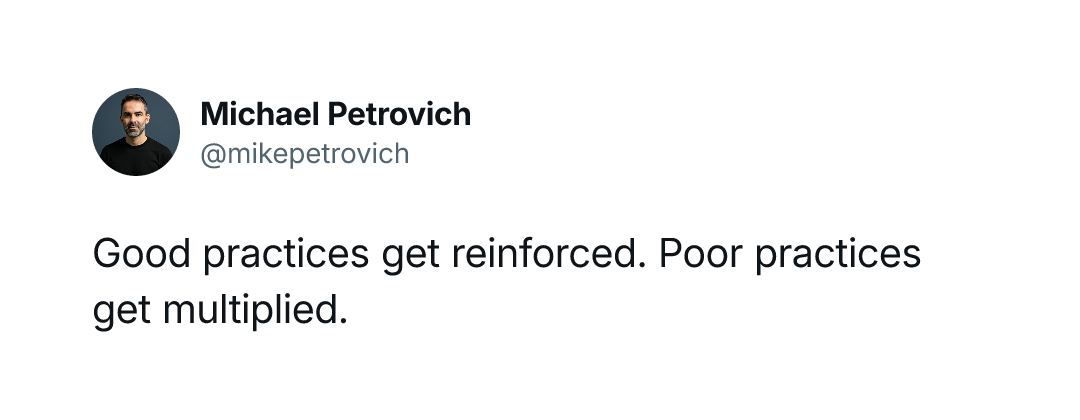
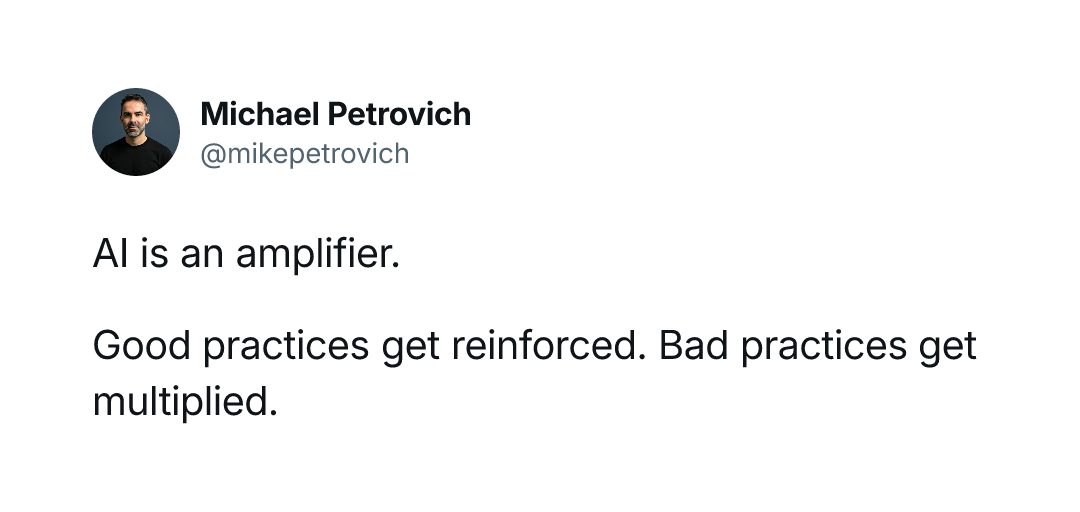
update: ai-is-an-amplifier tweet mockup text (#18)
* update: ai-is-an-amplifier tweet mockup text

* update: add closing paragraph to AI is an amplifier

* update: poor → bad practices for symmetry

* update: shorten closing line to If worse

---------

Changed region(s): [[0.0611, 0.5571, 0.9167, 0.8357], [0.0611, 0.1548, 0.4583, 0.4333], [0.0917, 0.4643, 0.3667, 0.5262]]

diff --git a/posts/published/2026-10-08-ai-is-an-amplifier.md b/posts/published/2026-10-08-ai-is-an-amplifier.md
@@ -1,12 +1,14 @@
 ---
 title: AI is an amplifier
-subtitle: Good practices get reinforced. Poor practices get multiplied.
+subtitle: Good practices get reinforced. Bad practices get multiplied.
 date: 2026-10-08
 topics: [ai, decision-making]
 ---
 
 If you have good practices, AI can help reinforce them.
 
-If you have poor practices, it multiplies their effects.
+If you have bad practices, it multiplies their effects.
 
 So before you decide whether to adopt AI for a particular use, ask: If this was done 10x more, would it leave things better or worse?
+
+If worse, then you should improve your practices before you think about automating them.
